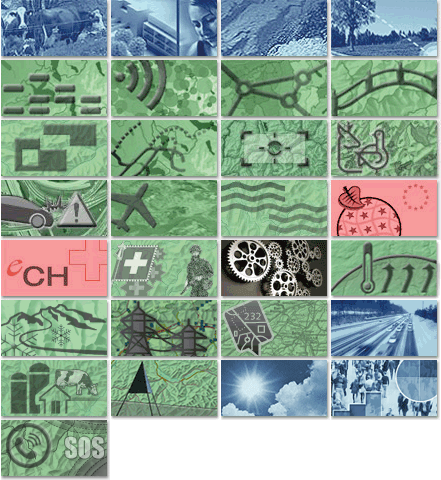
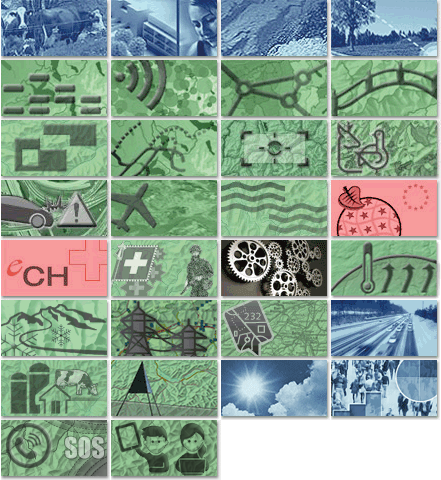
adding topic school maps (#5187)

Changed region(s): [[0.2358, 0.875, 0.5011, 1.0]]

diff --git a/src/components/topic/style/topic.less b/src/components/topic/style/topic.less
@@ -85,7 +85,7 @@
   }
 
   .ga-topics-sprite-kgs {
-    background-position: 0 -60px;
+    background-position: 0px -60px;
   }
 
   .ga-topics-sprite-funksender {
@@ -101,7 +101,7 @@
   }
 
   .ga-topics-sprite-sachplan {
-    background-position: 0 -120px;
+    background-position: 0px -120px;
   }
 
   .ga-topics-sprite-geol {
@@ -117,7 +117,7 @@
   }
 
   .ga-topics-sprite-vu {
-    background-position: 0 -180px;
+    background-position: 0px -180px;
   }
 
   .ga-topics-sprite-aviation {
@@ -133,7 +133,7 @@
   }
 
   .ga-topics-sprite-ech {
-    background-position: 0 -240px;
+    background-position: 0px -240px;
   }
 
   .ga-topics-sprite-verteidigung {
@@ -153,7 +153,7 @@
   }
 
   .ga-topics-sprite-schneesport {
-    background-position: 0 -300px;
+    background-position: 0px -300px;
   }
 
   .ga-topics-sprite-energie {
@@ -181,6 +181,10 @@
   }
 
   .ga-topics-sprite-notruf {
-    background-position: 0 -420px;
+    background-position: 0px -420px;
+  }
+
+  .ga-topics-sprite-schule {
+    background-position: -110px -420px;
   }
 }
